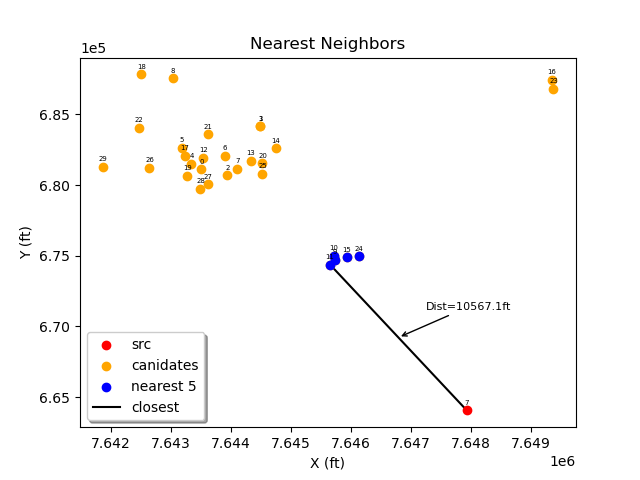
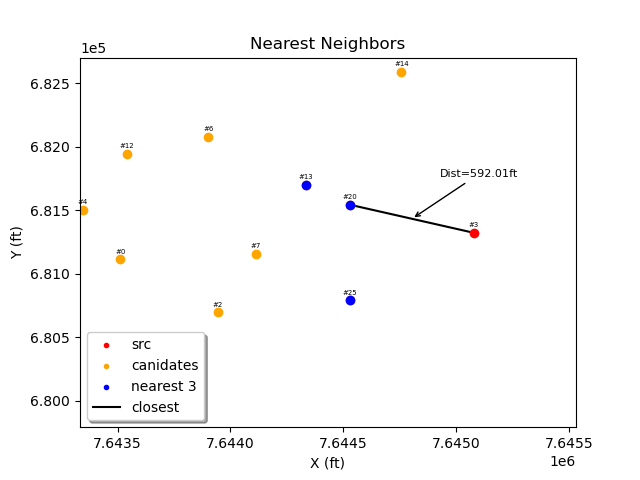
.

diff --git a/func.py b/func.py
@@ -200,17 +200,20 @@ def create_graphs(df_src, df_can, df_filter_near, df_filter_rad, rad_dist, neare
     # x_values = [src_xy[0],nearest_xy[0]]
     # y_values = [src_xy[1],nearest_xy[1]]
     # ax1.plot(x_values, y_values, 'black', label='closest', zorder=0)
-    # ax1.annotate(f'Dist={round(df_filter_near.loc[0]["dist"],2)}ft', xy=(((x_values[0]+x_values[1])/2),((y_values[0]+y_values[1])/2)), textcoords='offset points', xytext=(20,20), size=8, arrowprops=dict(arrowstyle="->"))
-    # ax1.annotate(src_point, (df_src.loc[src_point]['X'], df_src.loc[src_point]['Y']), ha='center', size='5', textcoords='offset points', xytext=(0,4))
+    # ax1.annotate(f'Dist={round(df_filter_near.loc[0]["dist"],2)}ft', xy=(((x_values[0]+x_values[1])/2),((y_values[0]+y_values[1])/2)), textcoords='offset points', xytext=(20,30), size=8, arrowprops=dict(arrowstyle="->"))
+    # ax1.annotate(f'#{src_point}', (df_src.loc[src_point]['X'], df_src.loc[src_point]['Y']), ha='center', size='5', textcoords='offset points', xytext=(0,4))
     # for i, _ in enumerate(df_can.index):
-    #     ax1.annotate(i, (df_can.loc[i]['X'], df_can.loc[i]['Y']), ha='center', size='5', textcoords='offset points', xytext=(0,4))
-    # ax1.legend(loc='lower left', shadow=True, fancybox=True)
+    #     ax1.annotate(f'#{i}', (df_can.loc[i]['X'], df_can.loc[i]['Y']), ha='center', size='5', textcoords='offset points', xytext=(0,4))
+    # ax1.legend(loc='lower left', shadow=True, fancybox=True, markerscale=0.5)
     # plt.title('Nearest Neighbors')
     # plt.xlabel('X (ft)')
     # plt.ylabel('Y (ft)')
-    # not setting set_aspect forces into a box and can be misleading
-    # ax1.set_aspect('equal')
-    # plt.show()
+    # plt.xlim(min(df_filter_near['X'])-1000, max(df_filter_near['X'])+1000)
+    # plt.ylim(min(df_filter_near['Y'])-1000, max(df_filter_near['Y'])+1000)
+    # plt.locator_params(axis='x', nbins=5)
+    # # not setting set_aspect forces into a box and can be misleading
+    # # ax1.set_aspect('equal')
+    # # plt.show()
     # plt.savefig('./Nearest_Neighbor.png')
 
     # fig2,ax2 = plt.subplots()
@@ -223,18 +226,20 @@ def create_graphs(df_src, df_can, df_filter_near, df_filter_rad, rad_dist, neare
     # x_values_rad = [src_xy[0],src_xy[0]-rad_dist]
     # y_values_rad = [src_xy[1],src_xy[1]]
     # ax2.plot(x_values_rad, y_values_rad, 'black', linestyle='dashed', label='radius', zorder=0)
-    # ax2.annotate(src_point, (df_src.loc[src_point]['X'], df_src.loc[src_point]['Y']), ha='center', size='6', textcoords='offset points', xytext=(0,4))
+    # ax2.annotate(f'#{src_point}', (df_src.loc[src_point]['X'], df_src.loc[src_point]['Y']), ha='center', size='6', textcoords='offset points', xytext=(0,4))
     # ax2.annotate(f'{rad_dist}ft', xy=(((x_values_rad[0]+x_values_rad[1])/2),((y_values_rad[0]+y_values_rad[1])/2)), textcoords='offset points', xytext=(0,-20), size=6, arrowprops=dict(arrowstyle="->"))
     # for i, _ in enumerate(df_can.index):
-    #     ax2.annotate(i, (df_can.loc[i]['X'], df_can.loc[i]['Y']), ha='center', size='6', textcoords='offset points', xytext=(0,4))
-    # ax2.legend(loc='upper right', shadow=True, fancybox=True, prop={'size': 6}, markerscale=0.5)
+    #     ax2.annotate(f'#{i}', (df_can.loc[i]['X'], df_can.loc[i]['Y']), ha='center', size='6', textcoords='offset points', xytext=(0,4))
+    # ax2.legend(loc='lower right', shadow=True, fancybox=True, prop={'size': 6}, markerscale=0.5)
     # ax2.set_aspect('equal')
     # plt.xlabel('X (ft)')
     # plt.ylabel('Y (ft)')
     # plt.title('Nearest Neigbors Within Radius')
-    # plt.xlim(min(df_filter_rad['X'])-1000, max(df_filter_rad['X'])+1000)
+    # plt.xlim(min(df_filter_rad['X'])-1000, max(df_filter_rad['X'])+1500)
     # plt.ylim(min(df_filter_rad['Y'])-1000, max(df_filter_rad['Y'])+1000)
+    # plt.locator_params(axis='x', nbins=5)
     # plt.savefig('./Nearest_Neighbor_Radius.png')
+    # plt.show()
 
 
     x_pos_near, x_pos_far = [], []
@@ -258,20 +263,21 @@ def create_graphs(df_src, df_can, df_filter_near, df_filter_rad, rad_dist, neare
 
     # plt.bar(x_pos, height, width=width)
     fig3, ax3 = plt.subplots()
-    plt.bar(0, 20, width=50, color="black", label='src point')
+    plt.bar(0, 20, width=50, color="red", label='src point')
     plt.bar(x_pos_near_scale, height_near, width=width_near, color="blue", label=f'nearest {nearest}')
-    plt.bar(x_pos_far_scale, height_far, width=width_far, color="red", label='Next nearest')
+    plt.bar(x_pos_far_scale, height_far, width=width_far, color="orange", label='Next nearest')
     plt.xlim(-100, max(df_graph["dist"]+200))
     plt.ylim(0,max(df_graph["height"]+20))
     plt.title('Profile View Distance to Nearest Neighbor')
     plt.xlabel('Distance (ft)')
     plt.ylabel('Height (ft)')
-    ax3.annotate(src_point, (0,20), ha='center', size='6', textcoords='offset points', xytext=(0,3))
+    ax3.annotate(f'#{src_point}', (0,20), ha='center', size='6', textcoords='offset points', xytext=(0,3))
     for i, _ in enumerate(df_graph.index):
-        ax3.annotate(df_graph.loc[i]['buildingIDX'], (df_graph.loc[i]['dist'], df_graph.loc[i]['height']), ha='center', size='6', textcoords='offset points', xytext=(0,3))
+        ax3.annotate(f'#{df_graph.loc[i]["buildingIDX"]}', (df_graph.loc[i]['dist'], df_graph.loc[i]['height']), ha='center', size='6', textcoords='offset points', xytext=(0,3))
     ax3.set_xticks(xticks)
-    ax3.legend(loc='upper left', shadow=True, fancybox=True)
-    plt.savefig('./Profile_view.png')
+    ax3.legend(loc='upper left', shadow=True, fancybox=True, markerscale=0.5)
+    # plt.savefig('./Profile_view.png')
+    # plt.show()
 
 def save_files(df_near, df_rad, src_point, df_src):
     if not os.path.exists('./output_radius/'):

diff --git a/main.py b/main.py
@@ -11,7 +11,7 @@ filter_types = ['elevDiff', 'elevDiff_inverse',
 '''
 
 def nearest_neighbor(canidates, locations, algorithm='KDTree', dist_metric='euclidean', nearest=4, rad_dist=0, filter_type='dist', more_src=0, more_can=0):
-    # Use for testing a graph making
+    # Use for testing and graph making
     # src_point = 3
 
     # Load data and reset index
@@ -56,4 +56,4 @@ def nearest_neighbor(canidates, locations, algorithm='KDTree', dist_metric='eucl
     # create_graphs(starting_locations, building_locations, near_filter, rad_filter, rad_dist, nearest, graph_filter, src_point) #for graphs
 
 if __name__ == "__main__":
-    nearest_neighbor('./buildings.csv', './queries.csv', nearest=3, filter_type='dist', rad_dist=0)
+    nearest_neighbor('./buildings.csv', './queries.csv', nearest=3, filter_type='dist', rad_dist=1000)
